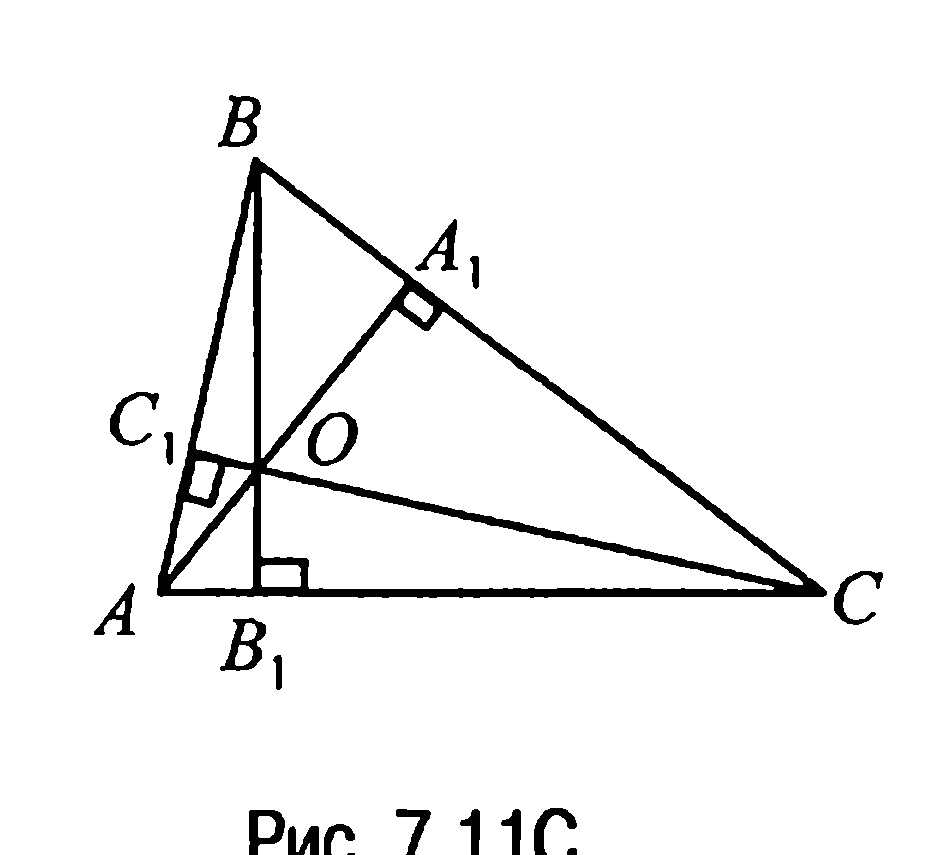
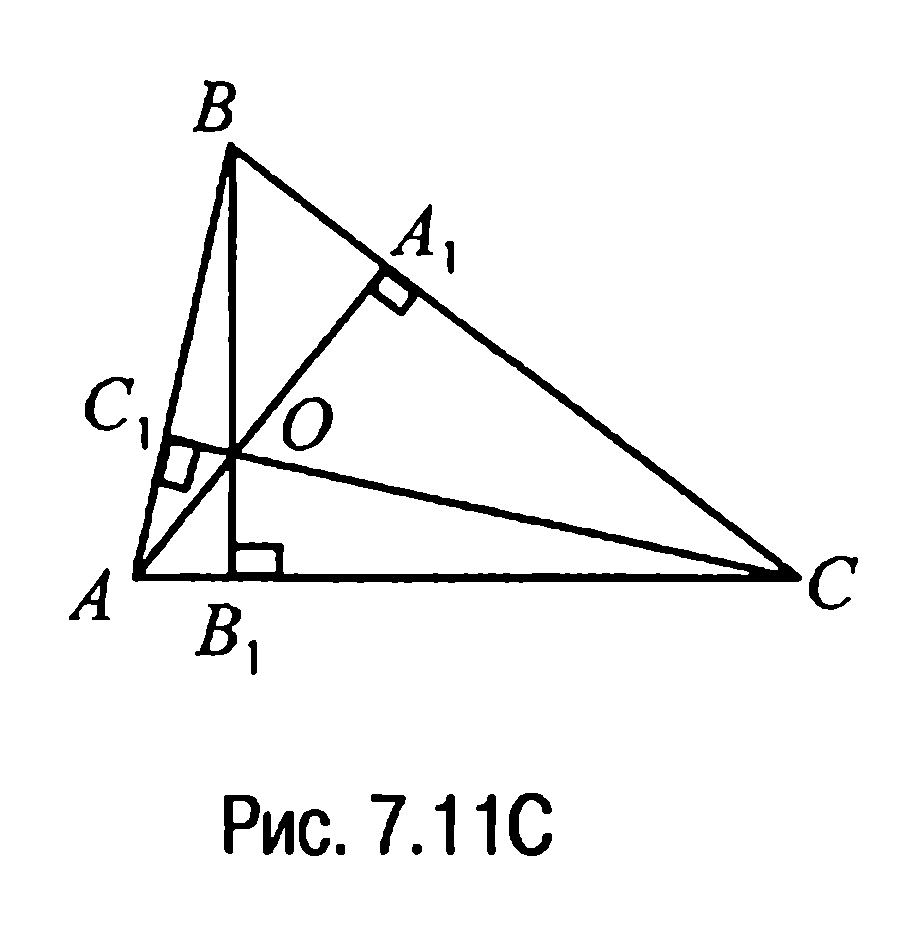
kostrikin_manin: 4 правки предметного указателя по сверке со сканом; geom_ploskosti: Рис. 7.11C, 7.12C вырезаны заново
kostrikin_manin: «несобственное», «аффинно», «кососимметричный», «—, двойственное
к данному» (apokrif audit + audit fix, codex). geom_ploskosti стр. 408-409:
срезанные подписи и край буквы (figures recrop).

Claude-Session: https://claude.ai/code/session_016LgTLBejBq8sH5fBJep17c

Changed region(s): [[0.0609, 0.0608, 0.9739, 0.8211], [0.3957, 0.8515, 0.6391, 1.0], [0.2435, 0.8515, 0.3957, 1.0]]

diff --git a/angem/kostrikin_manin/kostrikin_manin_g04_s09_tenzornyye_proizvedeniya_v_kvantovoy_mekhanike.md b/angem/kostrikin_manin/kostrikin_manin_g04_s09_tenzornyye_proizvedeniya_v_kvantovoy_mekhanike.md
@@ -519,7 +519,7 @@ $$M+\Lambda^2(L_i)=\Lambda^2(L),\qquad 1\leqslant i\leqslant n,$$
 — перспективное 237  
 — порядка 19  
 Отображение антилинейное 82  
-— аффино линейное 195  
+— аффинно линейное 195  
 — аффинное 195  
 — билинейное 51, 95  
 — двойственное 52  
@@ -638,7 +638,7 @@ $$M+\Lambda^2(L_i)=\Lambda^2(L),\qquad 1\leqslant i\leqslant n,$$
   - гильбертово 127
   - гиперболическое 185
   - главное однородное 194
-  - двойственное к данному 10, 51
+  —, двойственное к данному 10, 51
   - евклидово 117
   - касательное 288
   - когомологий 91
@@ -664,7 +664,7 @@ $$M+\Lambda^2(L_i)=\Lambda^2(L),\qquad 1\leqslant i\leqslant n,$$
     - координатное $n$-мерное 220
     - трёхмерное вещественное 170, 171
 - Пространство рефлексивное 26
-  - симплектическое 181
+  — симплектическое 181
   - сопряжённое 10
   - спиноров 163
   - унитарное 126
@@ -763,7 +763,7 @@ $$M+\Lambda^2(L_i)=\Lambda^2(L),\qquad 1\leqslant i\leqslant n,$$
   - антисимметричный 275
   - ковариантный 264
   - контравариантный 264
-  - кроссимметричный 275
+  - кососимметричный 275
   - Кронекера 268
   - метрический 267, 290
   - симметричный 271

diff --git a/angem/kostrikin_manin/kostrikin_manin_g00_s01_vstupitelnye_materialy.md b/angem/kostrikin_manin/kostrikin_manin_g00_s01_vstupitelnye_materialy.md
@@ -156,7 +156,7 @@
 — унитарная 34
 — — специальная 34
 Движение аффинного евклидова пространства 202
-— — — — собственное 204
+— — — — несобственное 204
 — непрерывное 44
 Двойственность тензорных произведений 260
 Действие 151
